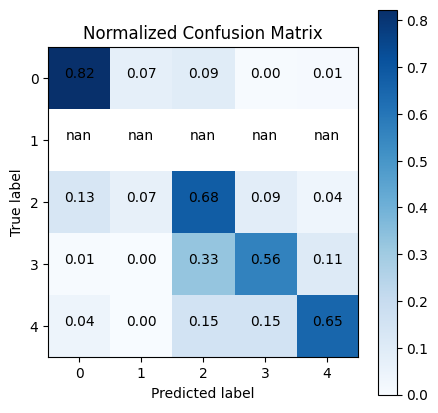
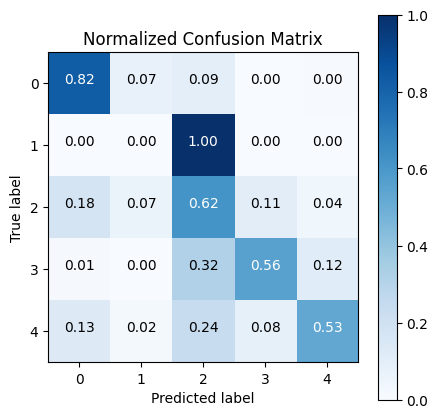
new confusion matrix

diff --git a/parameter.py b/parameter.py
@@ -43,8 +43,8 @@ train_transform = transforms.Compose([
 ])
 test_transform = transforms.Compose([
     ImgToTorch(),
-    transforms.Resize(224),
-    # transforms.CenterCrop(224),
+    transforms.Resize(256),
+    transforms.CenterCrop(224),
     transforms.Normalize(mean=[0.485, 0.456, 0.406], std=[0.229, 0.224, 0.225]),
 ])
 

diff --git a/evaluate.py b/evaluate.py
@@ -47,7 +47,7 @@ def evaluate(model, loader, loss):
 
 
 if __name__ == "__main__":
-    model = torch.load('model_80p.pth')
+    model = torch.load('resnet50_epo20.pth')
     model = model.to(device)
     preds, labels = evaluate(model, loader['test'], loss_fn)
     confusion_mat = ConfusionMatrix(preds, labels, 5)
